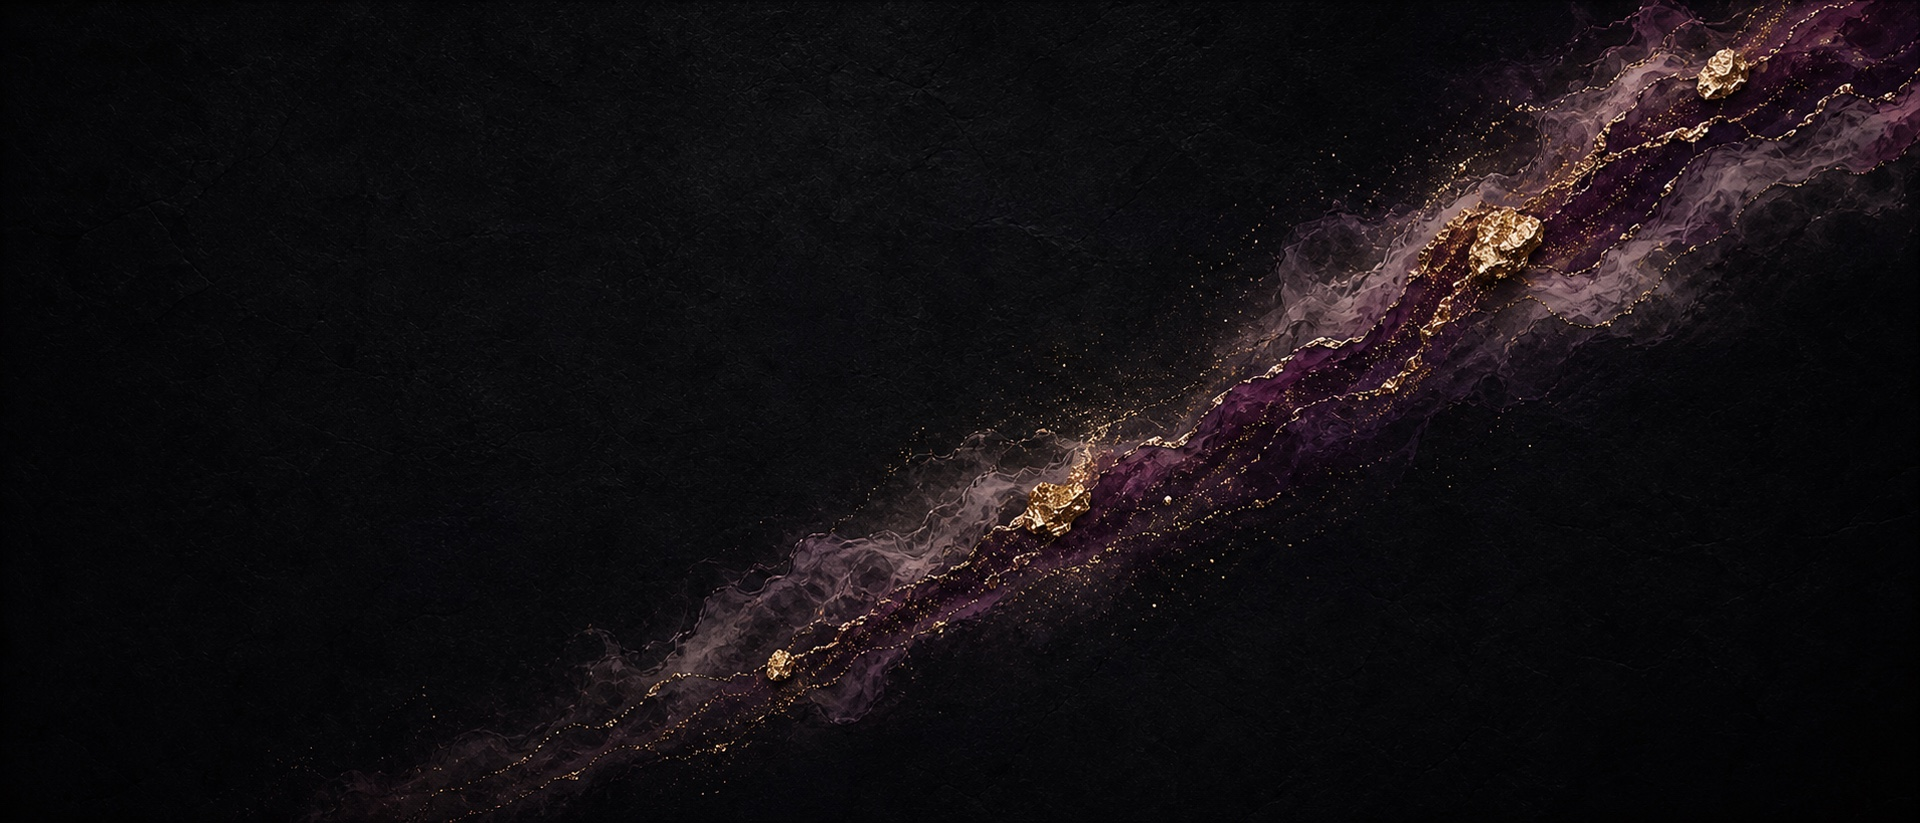
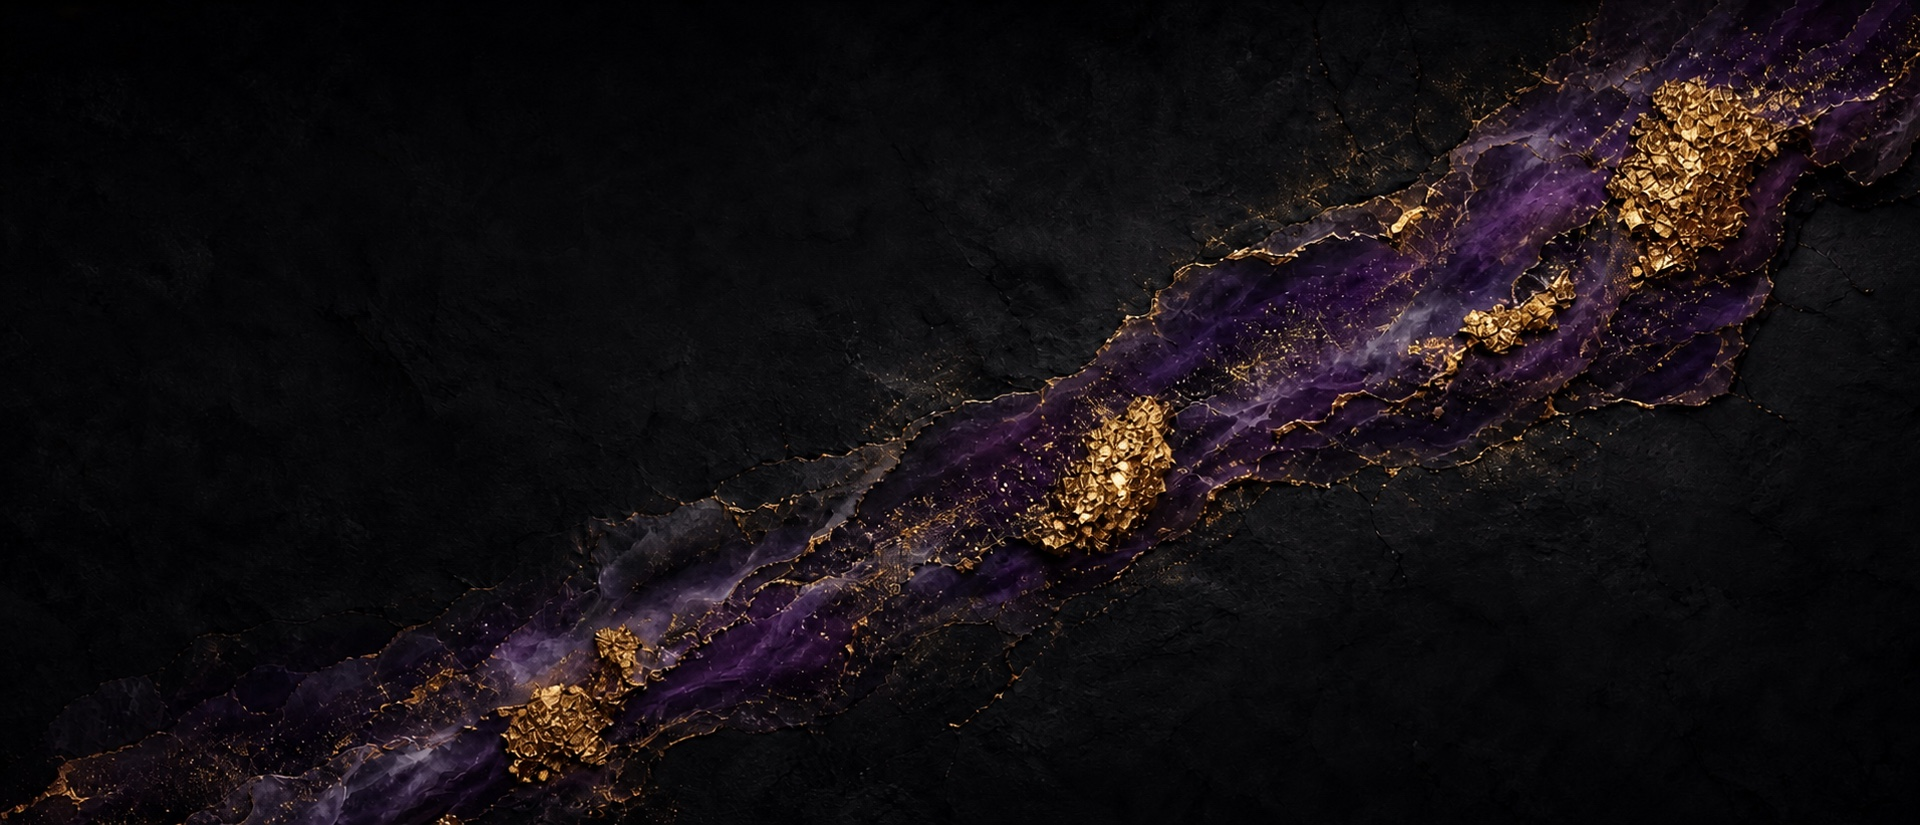
Swap in the newest gold-marble variant, flipped; reposition to keep the gold nugget clear of the subtitle text

Changed region(s): [[0.0938, 0.0, 1.0, 1.0], [0.0, 0.9113, 0.0625, 1.0]]

diff --git a/style.css b/style.css
@@ -271,9 +271,9 @@ ul { list-style: none; }
   inset: 0;
   z-index: -1;
   pointer-events: none;
-  background-image: url("assets/hero-marble.jpg?v=5");
+  background-image: url("assets/hero-marble.jpg?v=6");
   background-size: cover;
-  background-position: center;
+  background-position: 65% 15%;
   background-repeat: no-repeat;
 }
 
@@ -1069,7 +1069,7 @@ ul { list-style: none; }
   background:
     linear-gradient(180deg, transparent 0%, transparent 55%, var(--bg) 92%),
     radial-gradient(ellipse 65% 55% at 50% 40%, rgba(234, 179, 8, 0.28) 0%, transparent 70%),
-    url("assets/hero-marble.jpg?v=5") center / cover no-repeat,
+    url("assets/hero-marble.jpg?v=6") center / cover no-repeat,
     var(--bg);
 }
 
